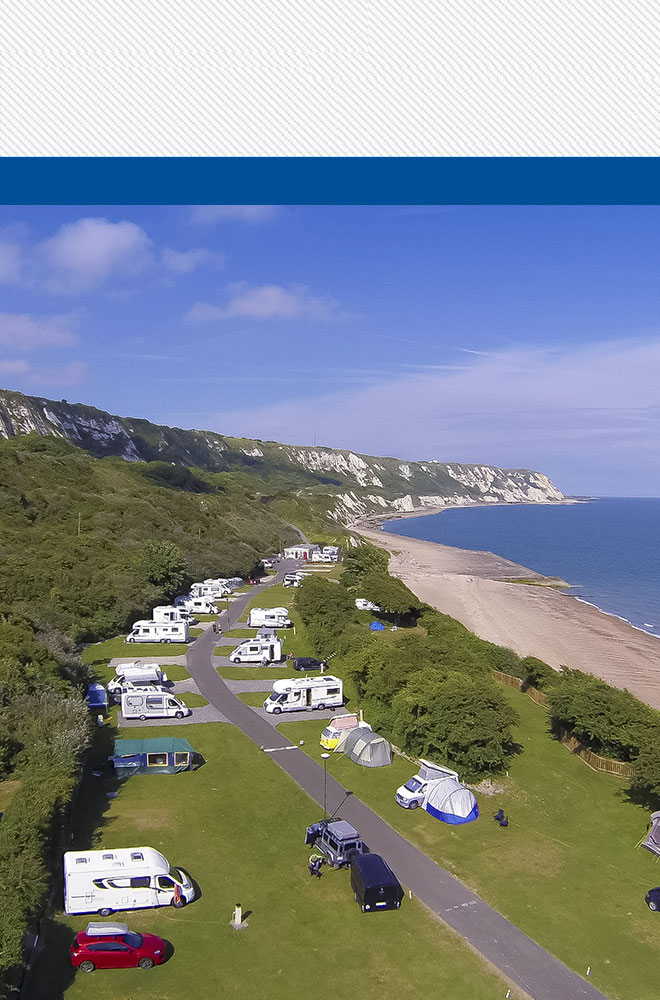
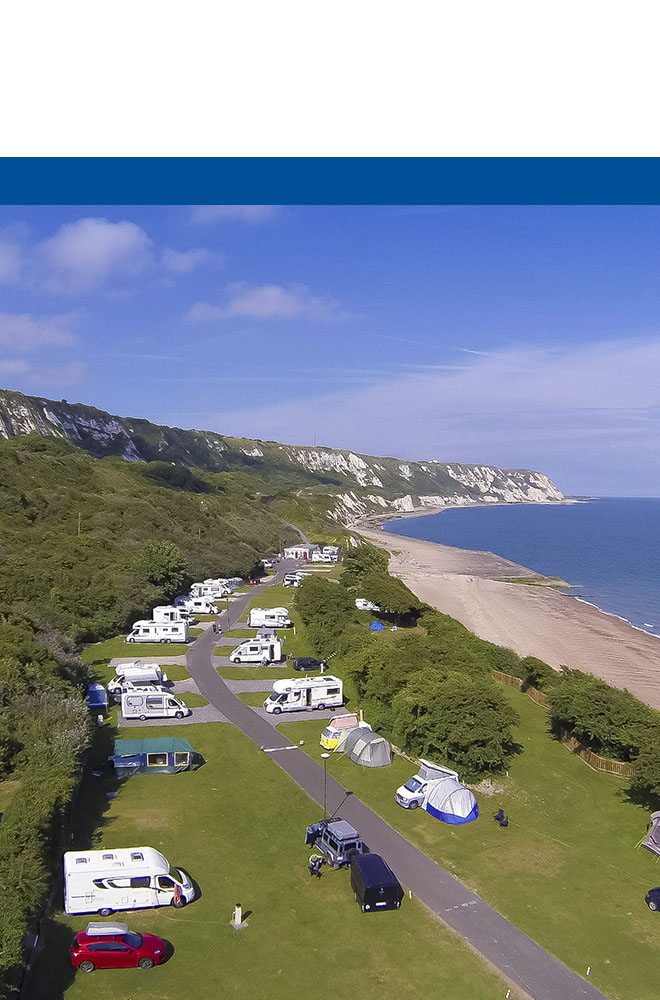
rebrand

Changed region(s): [[0.0, 0.0, 1.0, 0.155]]

diff --git a/www/views/registerPT2.html b/www/views/registerPT2.html
@@ -40,8 +40,8 @@ if(store.policyNumber != undefined){
 
 
 <div class="homeContent">
-<img class="homelogo_test" src="img/mainLogo.png" />
-<div class="pageTitle" style="margin-top:8px;"><img src="img/defaqto.png" width="100px" /></div>
+<img class="homelogo_test" src="img/ClubCare_logo_colour.png" />
+<div class="pageTitle" style="margin-top:22px;"><img src="img/defaqto.png" width="68px"/></div>
 <div style="clear: both;"></div>
 <div class="pageBanner">Step 2: My Policy Details</div>
 <div style="clear: both;"></div>
@@ -55,7 +55,14 @@ if(store.policyNumber != undefined){
 		<option id="Touring Caravan" value="Touring Caravan">Touring Caravan</option>
 		<option id="Trailer Tent" value="Trailer Tent">Trailer Tent</option>
 		<option id="Folding Caravan" value="Folding Caravan">Folding Caravan</option>
-		<option id="Trailer" value="Trailer">Trailer </option>
+		<option id="Trailer" value="Trailer">Trailer</option>
+		<option id="Static Caravan" value="Static Caravan">Static Caravan</option>
+		<option id="Park Home" value="Park Home">Park Home</option>
+		<option id="Log Cabin" value="Log Cabin">Log Cabin</option>
+		<option id="Lodge" value="Lodge">Lodge</option>
+		<option id="Twin Lodge" value="Twin Lodge">Twin Lodge</option>
+		<option id="Chalet" value="Chalet">Chalet</option>
+		<option id="Tent" value="Tent">Tent</option>
 	</select>
 	</p>
 

diff --git a/www/views/policy.html b/www/views/policy.html
@@ -4,8 +4,8 @@
   ga_storage._trackPageview('/policy.html');
 </script>
 <div class="homeContent">
-<img class="homelogo_test" src="img/mainLogo.png" />
-<div class="pageTitle" style="margin-top:8px;"><img src="img/defaqto.png" width="100px" /></div>
+<img class="homelogo_test" src="img/ClubCare_logo_colour.png" />
+<div class="pageTitle" style="margin-top:22px;"><img src="img/defaqto.png" width="68px"/></div>
 <div style="clear: both;"></div>
 <div class="pageBanner">Recording My Unit Details</div>
 <div style="clear: both;"></div>

diff --git a/www/views/products.html b/www/views/products.html
@@ -3,8 +3,8 @@
   ga_storage._trackPageview('/products.html');
 </script>
 <div class="homeContent4">
-<img class="homelogo_test" src="img/mainLogo.png" />
-<div class="pageTitle" style="margin-top:8px;"><img src="img/defaqto.png" width="100px" /></div>
+<img class="homelogo_test" src="img/ClubCare_logo_colour.png" />
+<div class="pageTitle" style="margin-top:22px;"><img src="img/defaqto.png" width="68px"/></div>
 <div style="clear: both;"></div>
 <div class="pageBanner">Featured Products</div>
 <div style="clear: both;"></div>

diff --git a/www/views/contact.html b/www/views/contact.html
@@ -3,8 +3,8 @@
   ga_storage._trackPageview('/contact.html');
 </script>
 <div class="homeContent3">
-<img class="homelogo_test" src="img/mainLogo.png" />
-<div class="pageTitle" style="margin-top:8px;"><img src="img/defaqto.png" width="100px" /></div>
+<img class="homelogo_test" src="img/ClubCare_logo_colour.png" />
+<div class="pageTitle" style="margin-top:22px;"><img src="img/defaqto.png" width="68px"/></div>
 <div style="clear: both;"></div>
 <div class="pageBanner">Contact Club Care</div>
 <div style="clear: both;"></div>

diff --git a/www/views/report_theftPT2.html b/www/views/report_theftPT2.html
@@ -28,9 +28,8 @@ if(store.theftincidentDetails != undefined){
 
 
 <div class="homeContent">
-<img class="homelogo_test" src="img/mainLogo.png" />
-
-<div class="pageTitle" style="margin-top:8px;"><img src="img/defaqto.png" width="100px" /></div>
+<img class="homelogo_test" src="img/ClubCare_logo_colour.png" />
+<div class="pageTitle" style="margin-top:22px;"><img src="img/defaqto.png" width="68px"/></div>
 <div style="clear: both;"></div>
 <div class="pageBanner">Step 2: Theft Details</div>
 <div style="clear: both;"></div>

diff --git a/www/views/claim.html b/www/views/claim.html
@@ -3,9 +3,8 @@
   ga_storage._trackPageview('/claim.html');
 </script>
 <div class="homeContent">
-<img class="homelogo_test" src="img/mainLogo.png"/>
-
-<div class="pageTitle" style="margin-top:8px;"><img src="img/defaqto.png" width="100px" /></div>
+<img class="homelogo_test" src="img/ClubCare_logo_colour.png" />
+<div class="pageTitle" style="margin-top:22px;"><img src="img/defaqto.png" width="68px"/></div>
 <div style="clear: both;"></div>
 <div class="pageBanner">Insurance Claim</div>
 <div style="clear: both;"></div>

diff --git a/www/views/hints.html b/www/views/hints.html
@@ -3,8 +3,8 @@
   ga_storage._trackPageview('/hints.html');
 </script>
 <div class="homeContent3">
-<img class="homelogo_test" src="img/mainLogo.png" />
-<div class="pageTitle" style="margin-top:8px;"><img src="img/defaqto.png" width="100px" /></div>
+<img class="homelogo_test" src="img/ClubCare_logo_colour.png" />
+<div class="pageTitle" style="margin-top:22px;"><img src="img/defaqto.png" width="68px"/></div>
 <div style="clear: both;"></div>
 <div class="pageBanner">Caravan Tips</div>
 <div style="clear: both;"></div>

diff --git a/www/views/report_claimPT2.html b/www/views/report_claimPT2.html
@@ -28,9 +28,8 @@ if(store.incidentDetails != undefined){
 
 
 <div class="homeContent">
-<img class="homelogo_test" src="img/mainLogo.png" />
-
-<div class="pageTitle" style="margin-top:8px;"><img src="img/defaqto.png" width="100px" /></div>
+<img class="homelogo_test" src="img/ClubCare_logo_colour.png" />
+<div class="pageTitle" style="margin-top:22px;"><img src="img/defaqto.png" width="68px"/></div>
 <div style="clear: both;"></div>
 <div class="pageBanner">Step 2: Claim Details</div>
 <div style="clear: both;"></div>

diff --git a/www/views/registerPT4.html b/www/views/registerPT4.html
@@ -201,8 +201,8 @@ function onFail(message) {
 
 
 <div class="homeContent">
-<img class="homelogo_test" src="img/mainLogo.png" />
-<div class="pageTitle" style="margin-top:8px;"><img src="img/defaqto.png" width="100px" /></div>
+<img class="homelogo_test" src="img/ClubCare_logo_colour.png" />
+<div class="pageTitle" style="margin-top:22px;"><img src="img/defaqto.png" width="68px"/></div>
 <div style="clear: both;"></div>
 <div class="pageBanner">Step 4: My Caravan Photos</div>
 <div style="clear: both;"></div>

diff --git a/www/views/sendPolicy.html b/www/views/sendPolicy.html
@@ -6,8 +6,8 @@ function finishclaim(){
 </script>
 
 <div class="homeContent">
-	<img class="homelogo_test" src="img/mainLogo.png" />
-	<div class="pageTitle" style="margin-top:8px;"><img src="img/defaqto.png" width="100px" /></div>
+<img class="homelogo_test" src="img/ClubCare_logo_colour.png" />
+<div class="pageTitle" style="margin-top:22px;"><img src="img/defaqto.png" width="68px"/></div>
 	<div style="clear: both;"></div>
 	<div class="pageBanner">Claim Notification</div>
 	<div style="clear: both;"></div>

diff --git a/www/views/report_claimPT3.html b/www/views/report_claimPT3.html
@@ -185,8 +185,8 @@ function onFail(message) {
 
 
 <div class="homeContent">
-<img class="homelogo_test" src="img/mainLogo.png" />
-<div class="pageTitle" style="margin-top:8px;"><img src="img/defaqto.png" width="100px" /></div>
+<img class="homelogo_test" src="img/ClubCare_logo_colour.png" />
+<div class="pageTitle" style="margin-top:22px;"><img src="img/defaqto.png" width="68px"/></div>
 <div style="clear: both;"></div>
 <div class="pageBanner">Step 3: Complete Claim</div>
 <div style="clear: both;"></div>

diff --git a/www/views/report_theftPT3.html b/www/views/report_theftPT3.html
@@ -182,8 +182,8 @@ function onFail(message) {
 
 
 <div class="homeContent">
-<img class="homelogo_test" src="img/mainLogo.png" />
-<div class="pageTitle" style="margin-top:8px;"><img src="img/defaqto.png" width="100px" /></div>
+<img class="homelogo_test" src="img/ClubCare_logo_colour.png" />
+<div class="pageTitle" style="margin-top:22px;"><img src="img/defaqto.png" width="68px"/></div>
 <div style="clear: both;"></div>
 <div class="pageBanner">Step 3: Complete Claim</div>
 <div style="clear: both;"></div>
